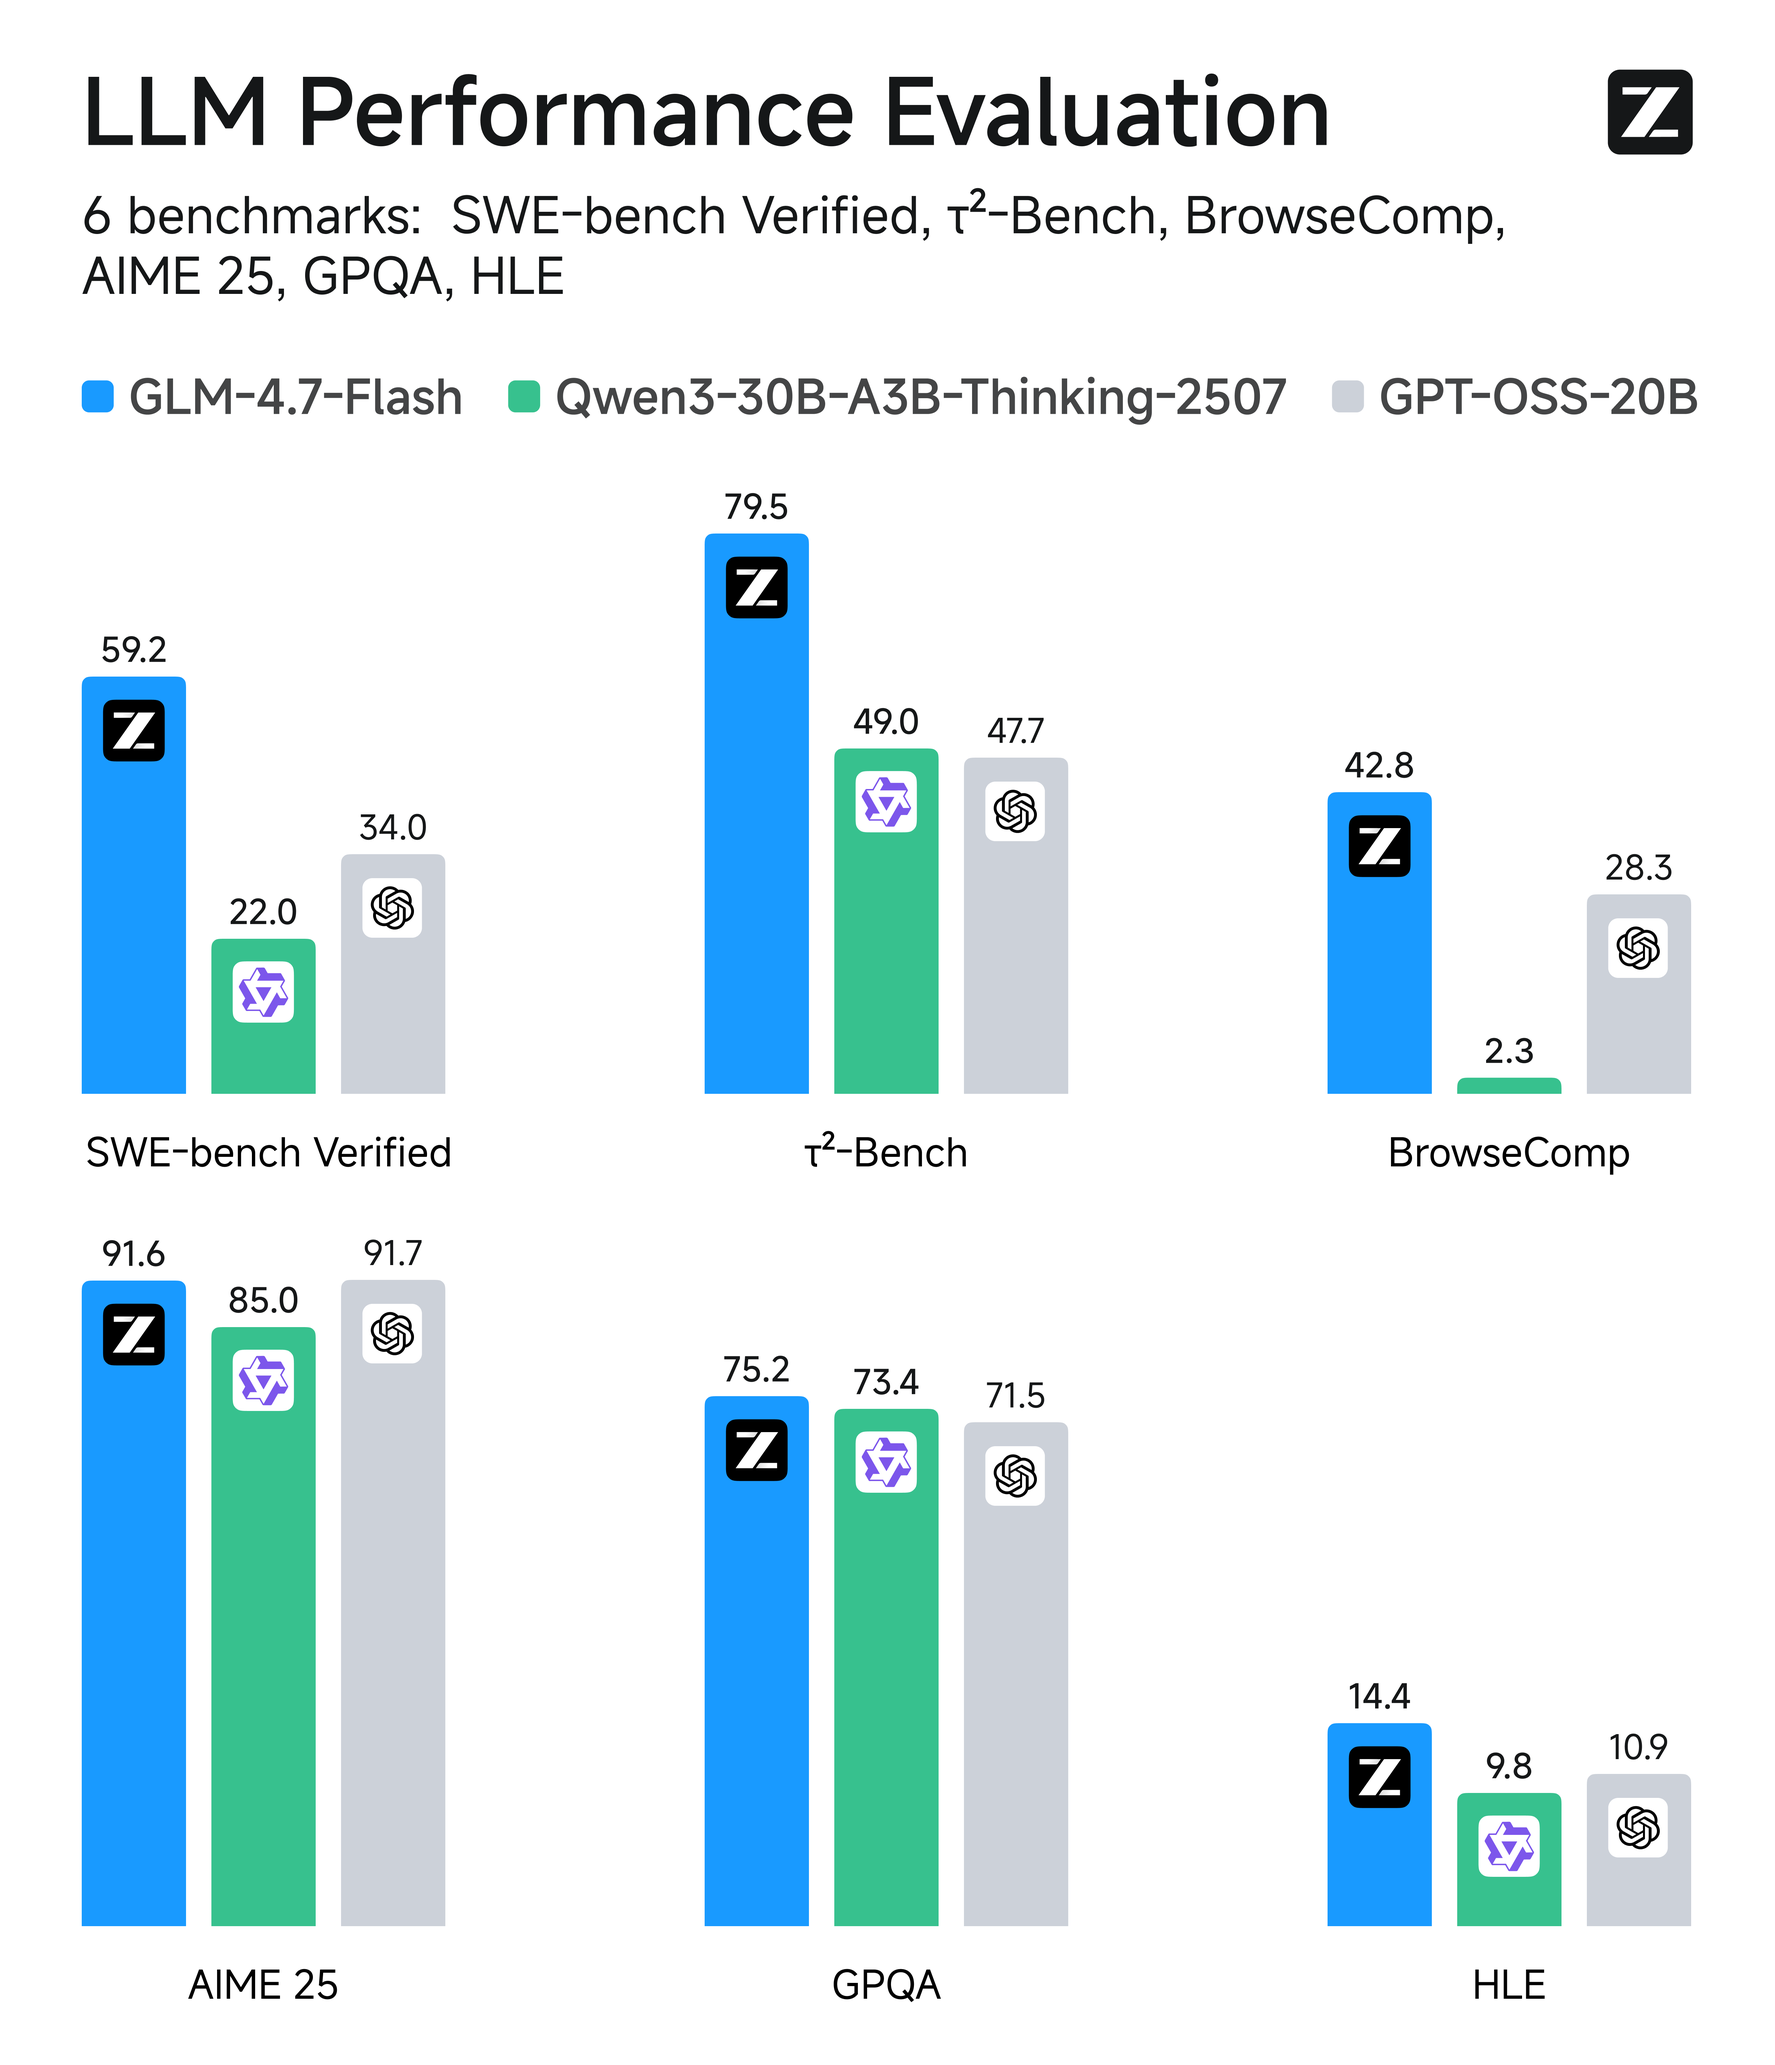
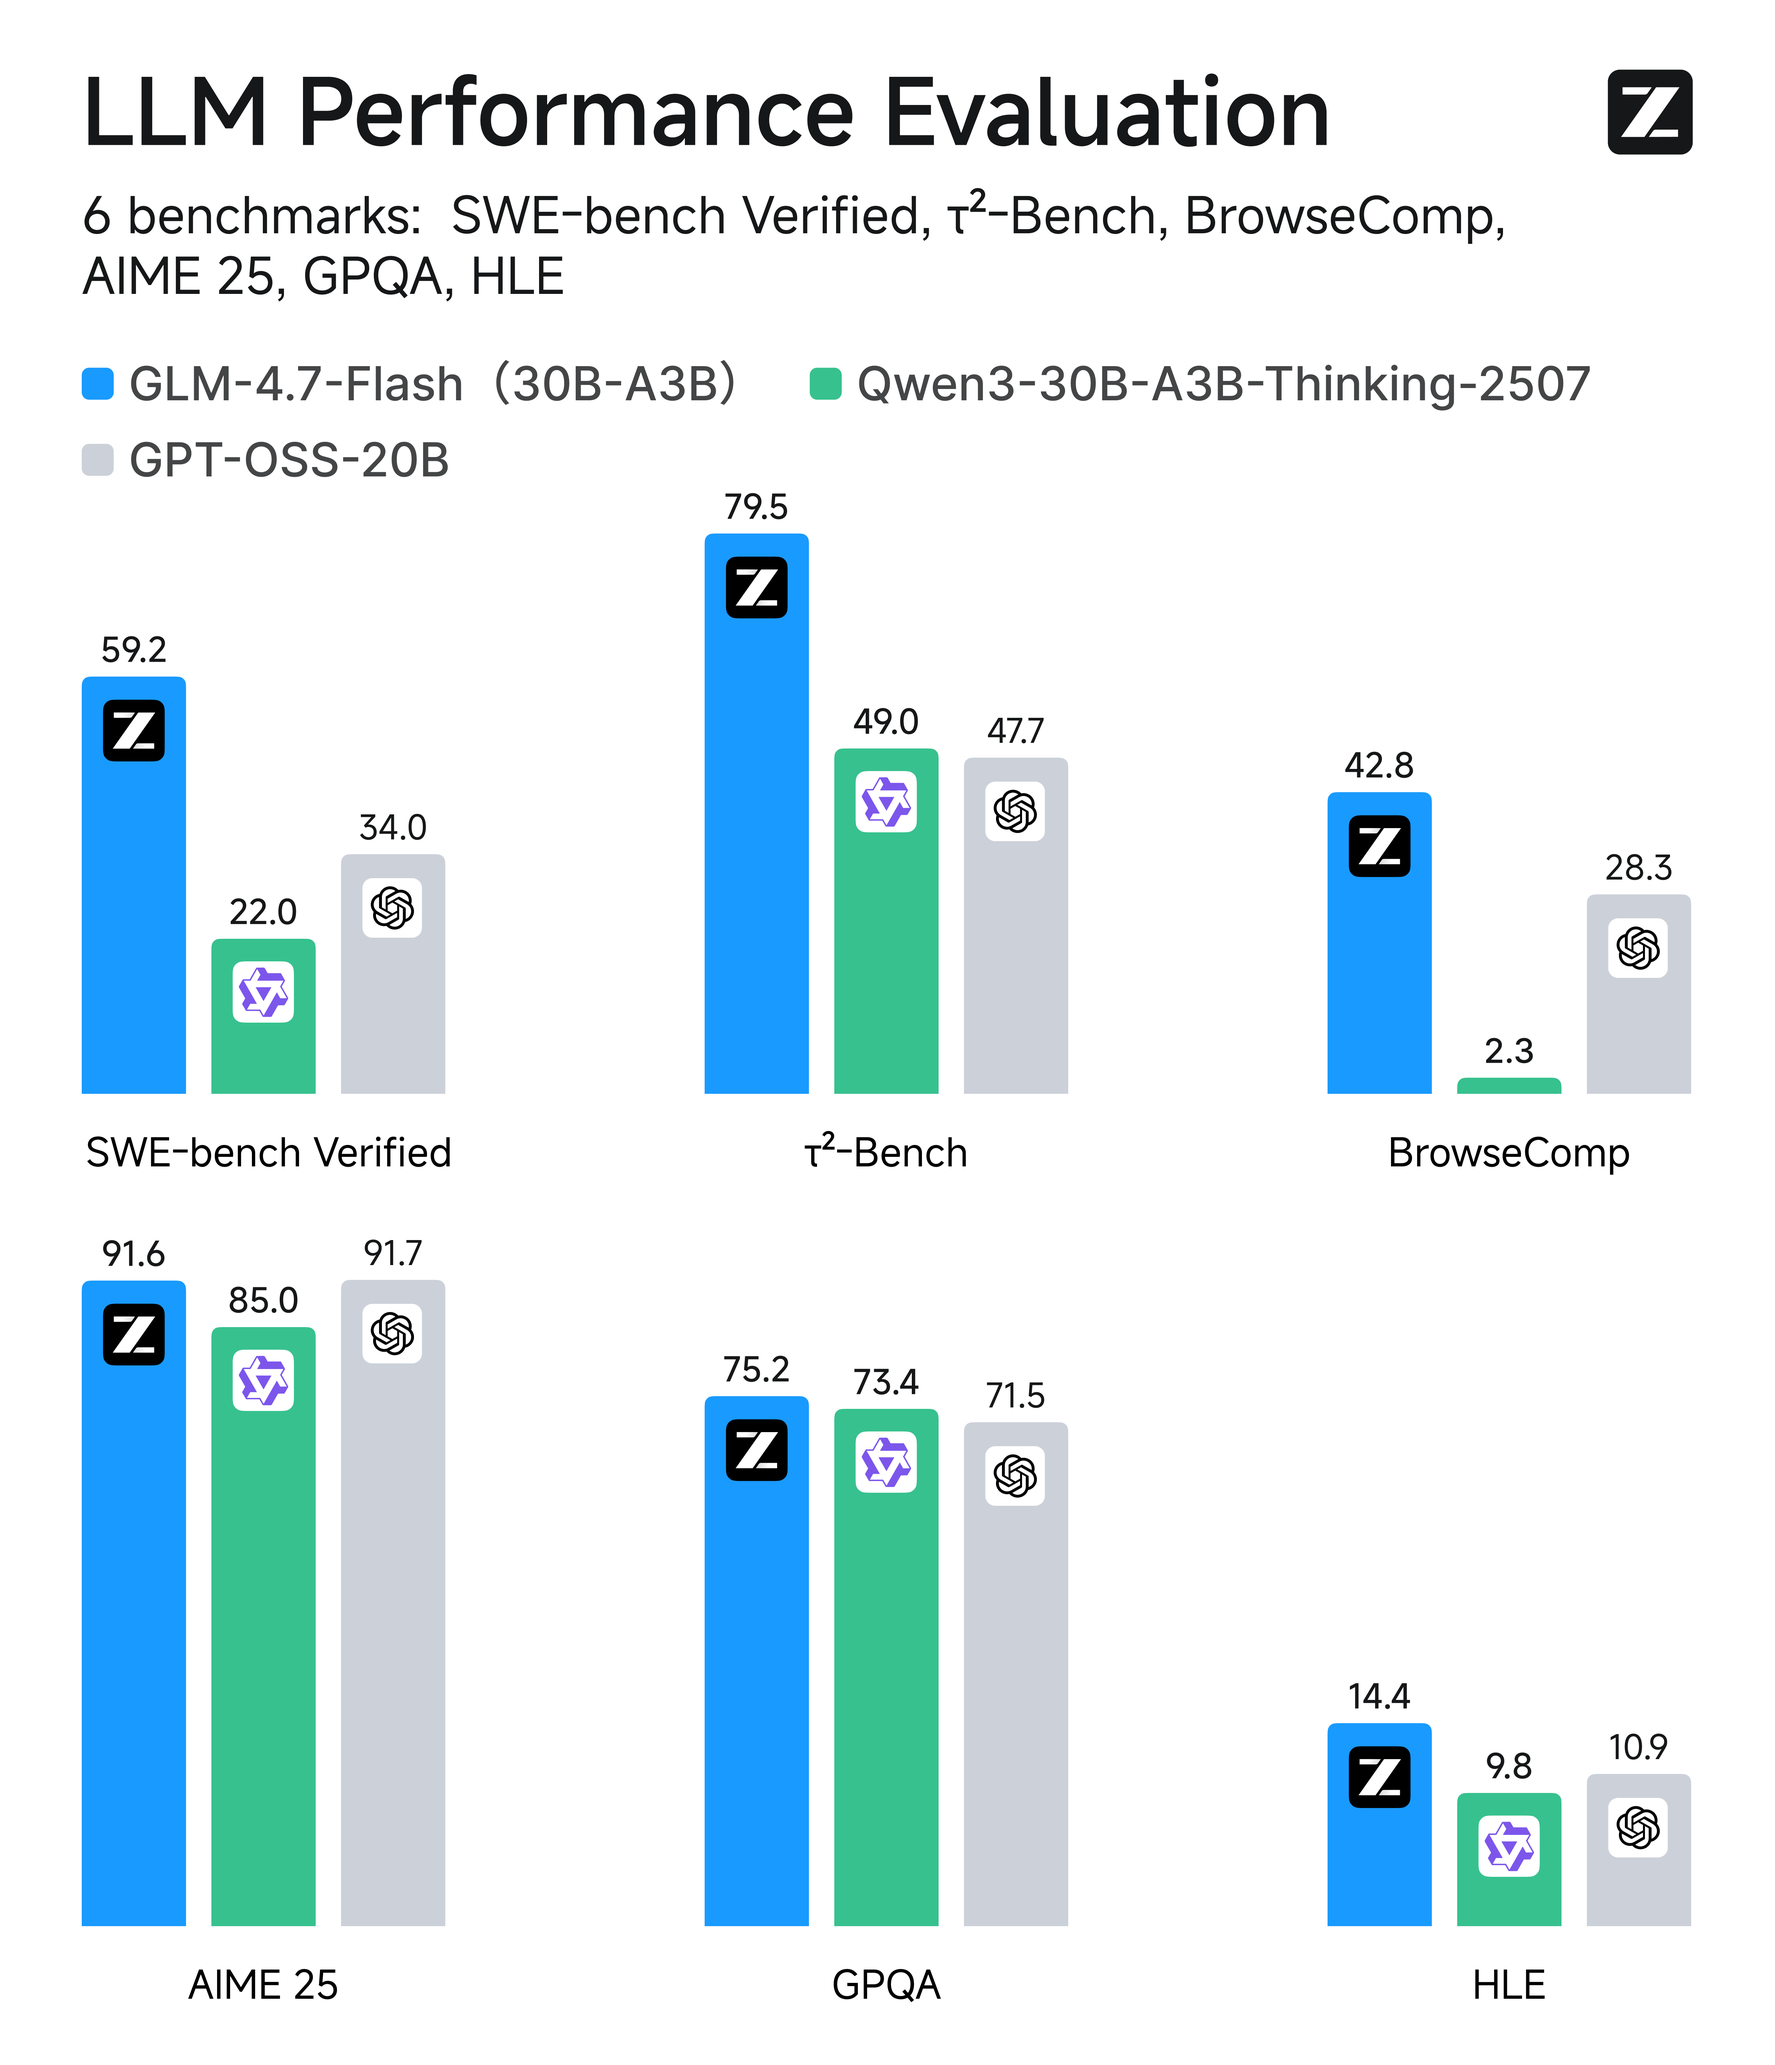
Update SGL Guide (#128)
* update

* update

* add guide

* update

Changed region(s): [[0.2805, 0.1561, 0.9661, 0.2186], [0.0312, 0.1561, 0.2493, 0.2498]]

diff --git a/README.md b/README.md
@@ -41,7 +41,7 @@ GLM-4.7 further enhances **Interleaved Thinking** (a feature introduced since GL
 
 More details: https://docs.z.ai/guides/capabilities/thinking-mode
 
-At the same time, we provide the lightweight model GLM-4.7-Flash, offering a new option for lightweight deployment that balances performance and efficiency.
+We also provide the lightweight 30B-A3B model GLM-4.7-Flash, offering a new option for lightweight deployment that balances performance and efficiency.
 
 ### GLM-4.6
 
@@ -121,13 +121,13 @@ The models can run under the configurations in the table below:
 
 Under the configurations in the table below, the models can utilize their full 128K context length:
 
-| Model         | Precision | GPU Type and Count |
-|---------------|-----------|--------------------|
-| GLM-4.5       | BF16      | H100 x 32          |
-| GLM-4.5       | FP8       | H100 x 16          |
-| GLM-4.5-Air   | BF16      | H100 x 8           |
-| GLM-4.5-Air   | FP8       | H100 x 4           |
-| GLM-4.7-Flash | BF16       | H100 x 2           |
+| Model         | Precision   | GPU Type and Count |
+|---------------|-------------|--------------------|
+| GLM-4.5       | BF16        | H100 x 32          |
+| GLM-4.5       | FP8         | H100 x 16          |
+| GLM-4.5-Air   | BF16        | H100 x 8           |
+| GLM-4.5-Air   | FP8         | H100 x 4           |
+| GLM-4.7-Flash | BF16        | H100 x 2           |
 
 ### Other Devices
 
@@ -156,33 +156,35 @@ The code can run under the configurations in the table below using [Swift](https
 
 ## Quick Start
 
-vLLM and SGLang only support GLM-4.7 on their main branches. you can use their official docker images for inference.
+vLLM and SGLang only support GLM-4.7-Flash on their main branches. you can use their official docker images for inference.
 
-### vLLM
+- vLLM
 
-Using Docker as:
+    ```shell
+    docker pull vllm/vllm-openai:nightly 
+    ```
+  
+    or using pip (must use pypi.org as the index url):
+  
+    ```shell
+    pip install -U vllm --pre --index-url https://pypi.org/simple --extra-index-url https://wheels.vllm.ai/nightly
+    ```
 
-```shell
-docker pull vllm/vllm-openai:nightly 
-```
+- SGLang
 
-or using pip (must use pypi.org as the index url):
-
-```shell
-pip install -U vllm --pre --index-url https://pypi.org/simple --extra-index-url https://wheels.vllm.ai/nightly
-```
-
-### SGLang
-
-Using Docker as:
-
-```shell
-docker pull lmsysorg/sglang:dev
-```
+    ```shell
+    docker pull lmsysorg/sglang:dev
+    ```
+  
+  in docker, run:
+  
+  ```shell
+    pip install git+https://github.com/huggingface/transformers.git@76732b4e7120808ff989edbd16401f61fa6a0afa
+    ```
 
 or using pip install sglang from source.
 
-For GLM-4.6 and GLM-4.5, you can follow the configuration in `requirements.txt`.
+For GLM-4.7, GLM-4.6 and GLM-4.5, you can follow the configuration in `requirements.txt`.
 
 ### transformers
 
@@ -234,7 +236,7 @@ python -m sglang_router.launch_router --pd-disaggregation --prefill http://127.0
 - For GLM-4.7, `--tool-call-parser` should be set to `glm47` in both `vLLM` and `SGLang` method.
 - For agentic tasks of GLM-4.7, please turn on [Preserved Thinking mode](https://docs.z.ai/guides/capabilities/thinking-mode) by adding the following config (only sglang support):
   
-```
+    ```
     "chat_template_kwargs": {
         "enable_thinking": true,
         "clear_thinking": false
